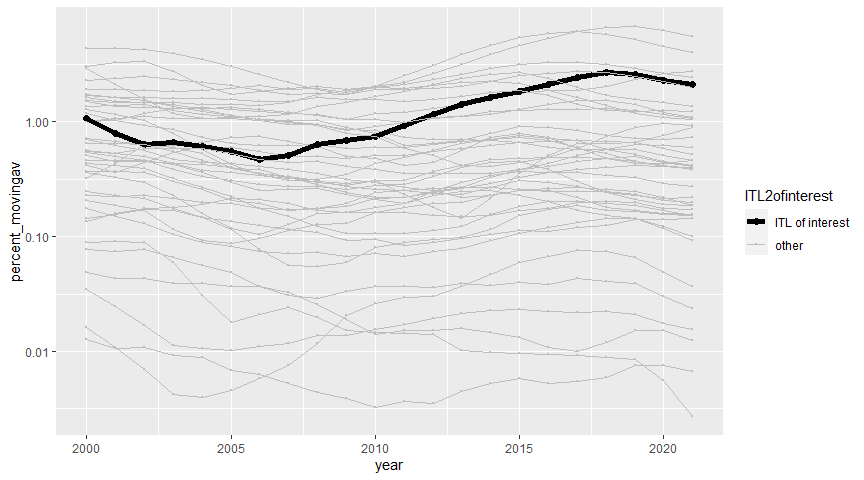
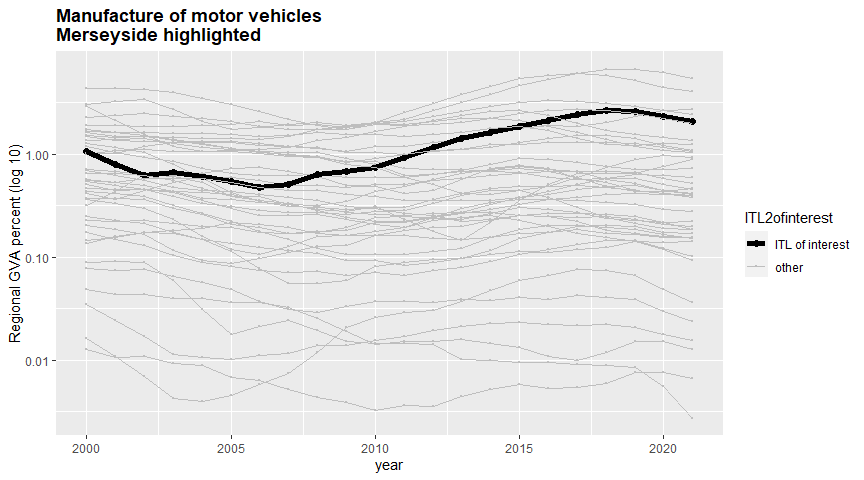
Titles added

diff --git a/README.md b/README.md
@@ -552,10 +552,10 @@ in LCR.
 ``` r
 #Pick a sector to plot separately for all places
 #Use grepl as a shortcut to search for sector names
+sector <- itl2.cp$SIC07_description[grepl('petroleum', itl2.cp$SIC07_description ,ignore.case = T)] %>% unique
+
 timeplot <- itl2.cp %>% 
-  filter(
-    grepl('petroleum', SIC07_description ,ignore.case = T)
-  ) 
+  filter(SIC07_description == sector) 
 
 #Use zoo's rollapply function to get a moving average
 timeplot <- timeplot %>% 
@@ -592,7 +592,11 @@ ggplot(timeplot %>%
   scale_size_manual(values = c(2.5,1)) +
   scale_color_brewer(palette = 'Paired', direction = 1) +
   ylab('Regional GVA percent') +
-  guides(size = "none", linetype = "none")
+  guides(size = "none", linetype = "none") +
+  ggtitle(
+    paste0(sector,'\n', place, ' highlighted')
+      ) +
+    theme(plot.title = element_text(face = 'bold'))
 ```
 
 ![](README_files/figure-gfm/timeplot1-1.png)<!-- -->
@@ -608,10 +612,10 @@ This plot does so for LCR’s largest LQ sector, manufacture of motor
 vehicles.
 
 ``` r
+sector <- itl2.cp$SIC07_description[grepl('motor vehicles', itl2.cp$SIC07_description ,ignore.case = T)] %>% unique
+
 timeplot <- itl2.cp %>% 
-  filter(
-    grepl('motor vehicles', SIC07_description ,ignore.case = T)
-  ) 
+  filter(SIC07_description == sector) 
 
 timeplot <- timeplot %>% 
   group_by(ITL_region_name) %>% 
@@ -634,8 +638,13 @@ p <- ggplot(timeplot %>%
   geom_point() +
   geom_line() +
   scale_y_log10() +
+  ylab('Regional GVA percent (log 10)') +
   scale_size_manual(values = c(2,0.5)) +
-  scale_colour_manual(values = c('black','grey'))
+  scale_colour_manual(values = c('black','grey')) +
+  ggtitle(
+    paste0(sector,'\n', place, ' highlighted')
+      ) +
+    theme(plot.title = element_text(face = 'bold'))
 
 p
 ```
@@ -701,7 +710,11 @@ ggplot(timeplot.sectors %>%
   geom_line() +
   scale_color_brewer(palette = 'Paired', direction = 1) +
   ylab('GVA percent') +
-  guides(size = "none", linetype = "none")
+  guides(size = "none", linetype = "none") +
+   ggtitle(
+    paste0('Top ten sectors by LQ growth trend\n', place)
+      ) +
+    theme(plot.title = element_text(face = 'bold'))
 ```
 
 ![](README_files/figure-gfm/unnamed-chunk-3-1.png)<!-- -->
